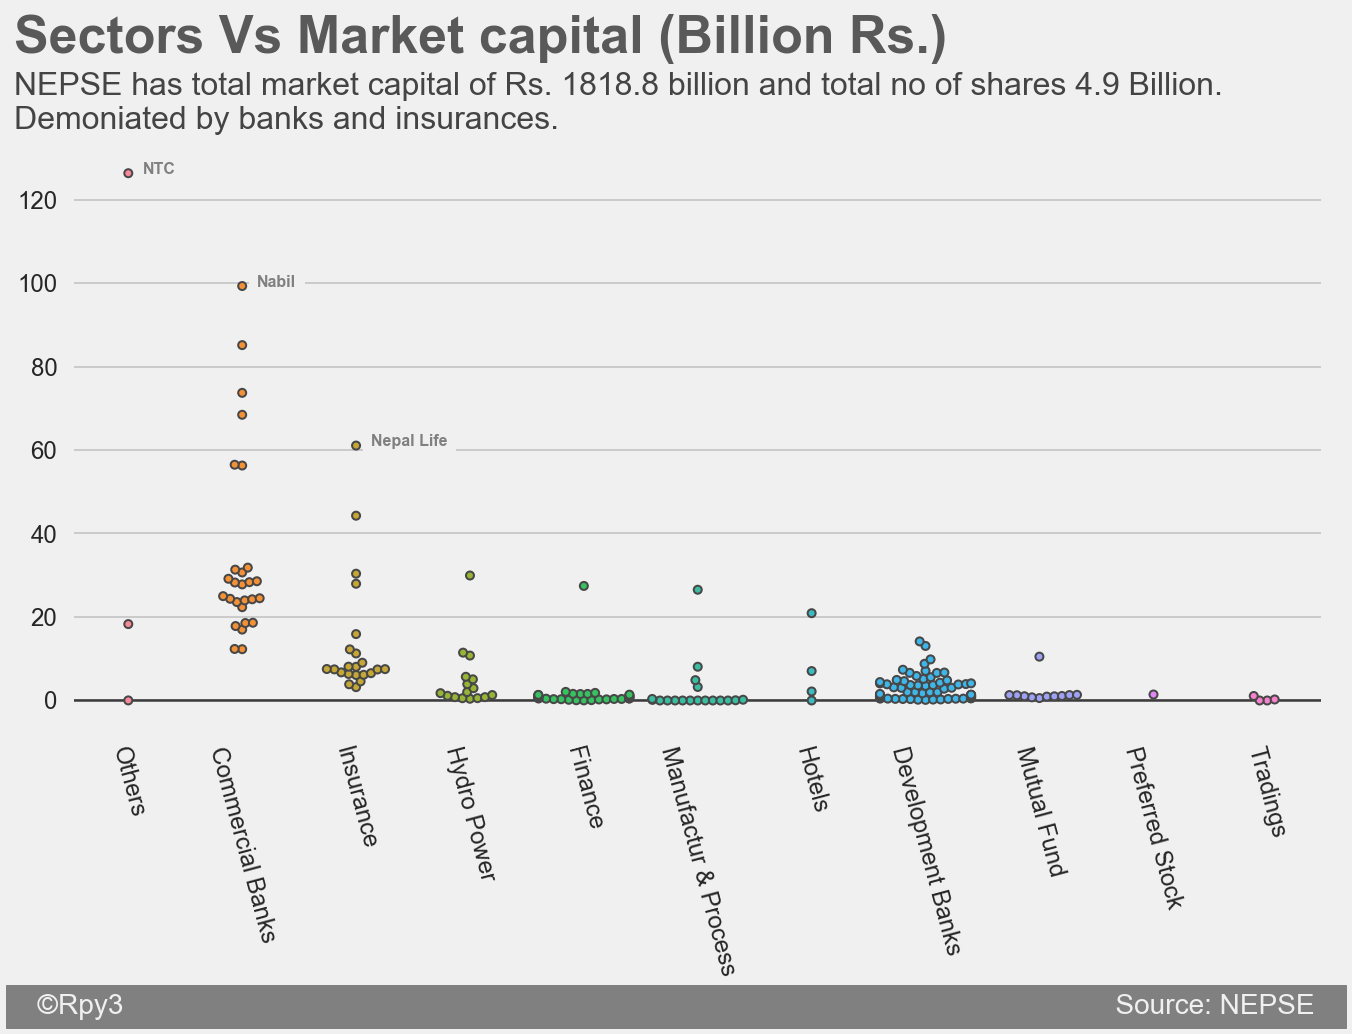
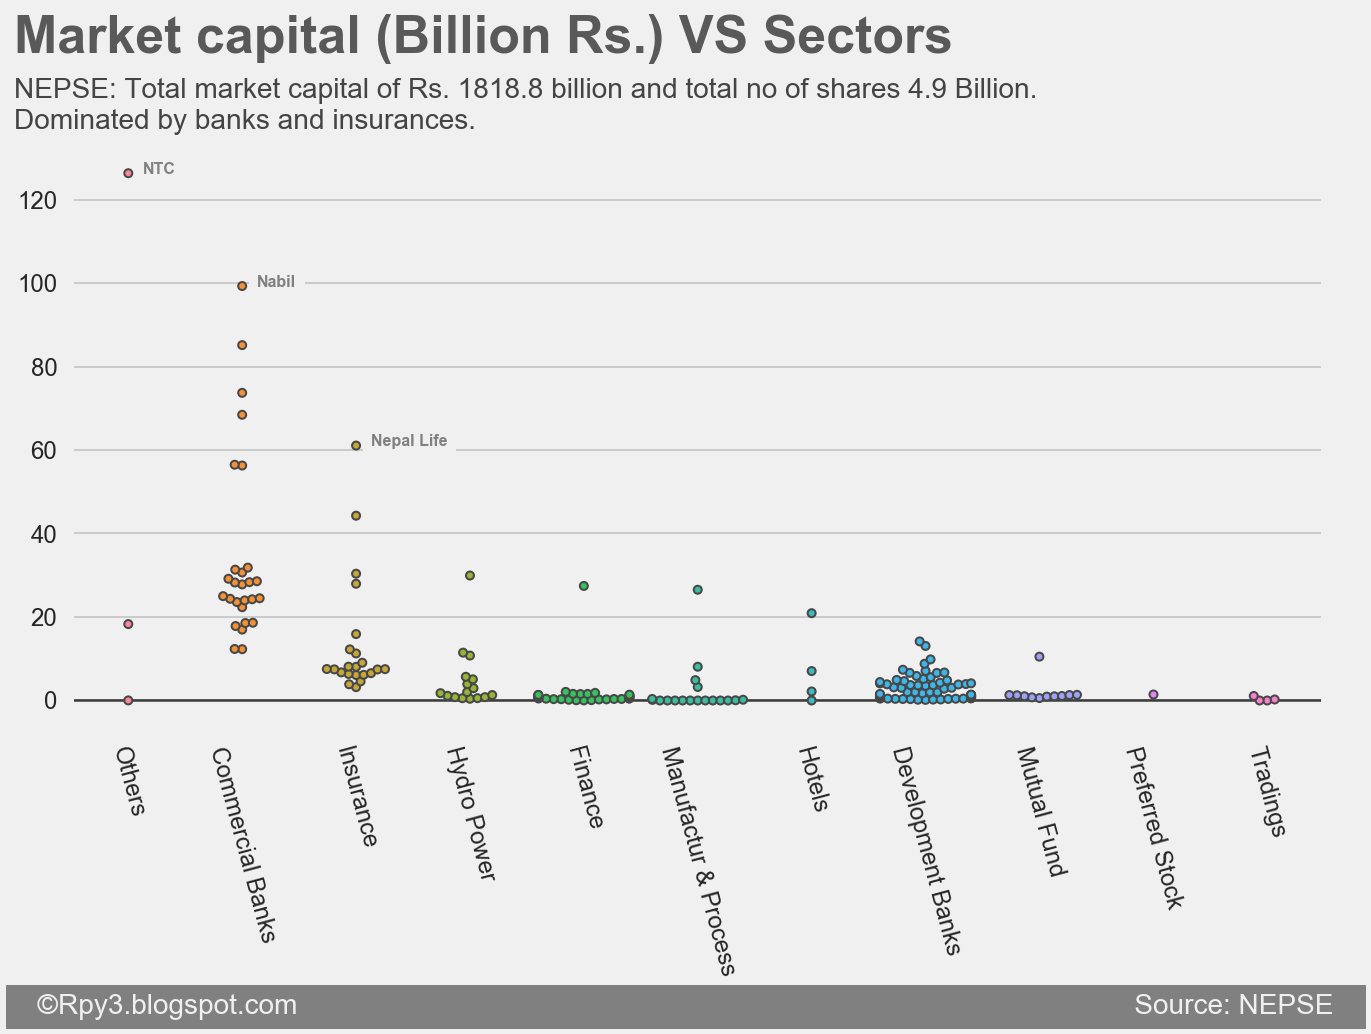
Add files via upload

diff --git a/sectors vs market cap.py b/sectors vs market cap.py
@@ -30,13 +30,13 @@ plt.tick_params(axis = 'both', which = 'major', labelsize = 12)
 sns.swarmplot(x='sector', y='market_capitalization_rs', data=df, size=4, linewidth=1)
 plt.xticks(rotation=-75)
 plt.text(y=-75, x =-1,
-    s = '   ©Rpy3                                                                                                                                Source: NEPSE   ',
+    s = '   ©Rpy3.blogspot.com                                                                                                            Source: NEPSE   ',
     fontsize = 14, color = '#f0f0f0', backgroundcolor = 'grey')
-plt.text(x = -1, y = 155, s = "Sectors Vs Market capital (Billion Rs.)",
+plt.text(x = -1, y = 155, s = "Market capital (Billion Rs.) VS Sectors",
                fontsize = 26, weight = 'bold', alpha = .75)
 plt.text(x = -1, y = 137, 
-               s = 'NEPSE has total market capital of Rs. 1818.8 billion and total no of shares 4.9 Billion.\nDemoniated by banks and insurances.',
-              fontsize = 16, alpha = .85)
+               s = 'NEPSE: Total market capital of Rs. 1818.8 billion and total no of shares 4.9 Billion.\nDominated by banks and insurances.',
+              fontsize = 14, alpha = .85)
 plt.text(x = 0.13, y = 126, s = 'NTC', color = 'grey', fontsize = 8, weight = 'bold', backgroundcolor = '#f0f0f0')
 plt.text(x = 1.13, y = 99, s = 'Nabil', color = 'grey', fontsize = 8, weight = 'bold', backgroundcolor = '#f0f0f0')
 plt.text(x = 2.13, y = 61, s = 'Nepal Life', color = 'grey',  fontsize = 8, weight = 'bold', backgroundcolor = '#f0f0f0')
